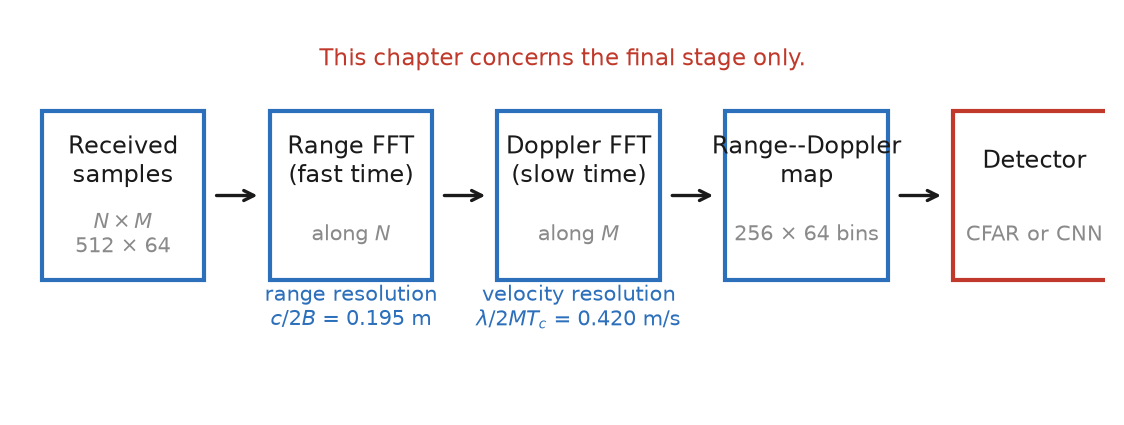
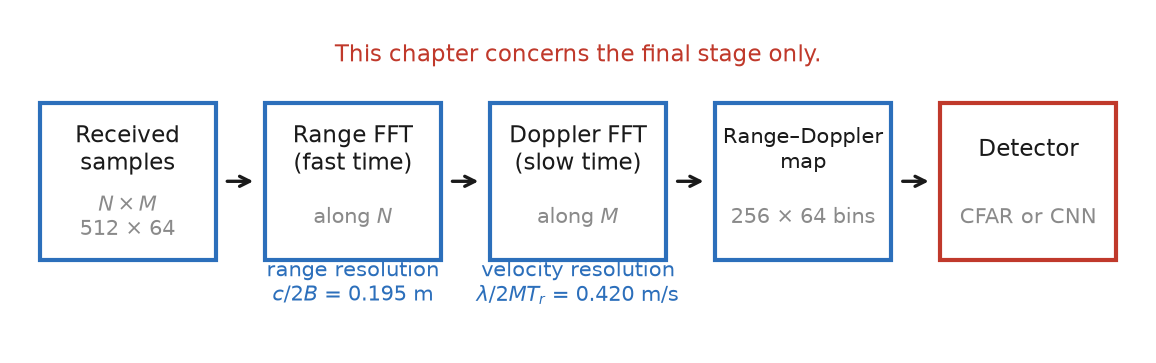
report: targeted precision and layout fixes in Chapter 2
Six requested edits. No numerical value, equation, or radar parameter
changed except the Tr/Tc notation clarified below.

Figure 2.2 (processing chain)
- Boxes laid out from a computed span so the row is centred and the
  right-most Detector block is no longer clipped by the axes limit.
- Widened boxes 15 -> 18, gap 6 -> 5; per-box font size so the
  Range-Doppler label fits.
- Fixed a LaTeX-ism: "--" rendered as two hyphens in matplotlib, now an
  en-dash character.
- Trimmed dead vertical space. Red note preserved.

Figure 2.1 (chirp)
- Gold marker relabelled "gap NOT to scale"; the on-figure note now says
  the vertical gap is exaggerated by the same 60x factor as the delay,
  and prints both true values.
- Lower panel titled "Mixing the transmitted chirp with its delayed echo
  produces a beat frequency proportional to range", marked true scale.
- Caption states the f_b gap is not drawn at 1.42 MHz.
- Mathematics and example values unchanged.

Range resolution (2.2.2)
- "Resolution depends on the swept bandwidth alone" -> nominal
  resolution determined primarily by swept bandwidth under stated
  assumptions, with a note that windowing widens the achieved value.
- Resolution criterion softened to "approximately one range-resolution
  cell of separation".

Doppler notation (2.2.3)
- Verified against src/radar/simulator.py: slow time is sampled at
  arange(M)*Tc and fftfreq(M, d=Tc), and frame time is M*Tc, so there is
[…]

Changed region(s): [[0.0311, 0.2424, 0.9964, 0.8485], [0.2802, 0.0909, 0.7162, 0.1818]]

diff --git a/scripts/make_ch2_figures.py b/scripts/make_ch2_figures.py
@@ -99,9 +99,9 @@ def fig_chirp():
     f_tx = t0 / Tc_us * B_MHz
     f_rx = (t0 - tau_plot) / Tc_us * B_MHz
     a.plot([t0, t0], [f_rx, f_tx], color=GOLD, lw=3.0, solid_capstyle="butt")
-    a.annotate("$f_b$: the two differ by a\nconstant frequency",
+    a.annotate("the two differ by a constant\nfrequency $f_b$ (gap NOT to scale)",
                xy=(t0, (f_rx + f_tx) / 2),
-               xytext=(t0 + 0.07 * Tc_us, 0.30 * B_MHz),
+               xytext=(t0 + 0.07 * Tc_us, 0.26 * B_MHz),
                arrowprops=dict(arrowstyle="->", color=GOLD, lw=1.1),
                color=GOLD, fontsize=8.2)
 
@@ -113,8 +113,10 @@ def fig_chirp():
     a.set_title("The echo is a delayed copy of the chirp, so the delay becomes a frequency")
     a.spines[["top", "right"]].set_visible(False)
     a.text(0.985, 0.06,
-           "delay drawn $\\times$%d for visibility;\ntrue $\\tau$ = %.3f $\\mu$s at $R$ = 20 m"
-           % (EXAG, tau_us),
+           "Delay drawn $\\times$%d for visibility, so the vertical\n"
+           "gap is exaggerated by the same factor.\n"
+           "True values at $R$ = 20 m: $\\tau$ = %.3f $\\mu$s, $f_b$ = %.2f MHz."
+           % (EXAG, tau_us, fb / 1e6),
            transform=a.transAxes, ha="right", va="bottom", fontsize=7.4, color=GREY)
 
     # --- beat tone, over a short window so individual cycles are visible
@@ -127,9 +129,11 @@ def fig_chirp():
     b.set_yticks([])
     b.set_xlim(20.0, 20.0 + span)
     b.spines[["top", "right", "left"]].set_visible(False)
-    b.set_title("The resulting beat tone: one frequency per target range", fontsize=9)
+    b.set_title("Mixing the transmitted chirp with its delayed echo produces a beat "
+                "frequency proportional to range", fontsize=9)
     b.text(0.985, 0.94,
-           "$f_b = 2BR / (c\\,T_c)$;    $R = 20$ m $\\Rightarrow f_b = %.2f$ MHz" % (fb / 1e6),
+           "$f_b = 2BR / (c\\,T_c)$;    $R = 20$ m $\\Rightarrow f_b = %.2f$ MHz "
+           "(shown here at true scale)" % (fb / 1e6),
            transform=b.transAxes, ha="right", va="top", fontsize=8.4, color=INK)
 
     fig.tight_layout()
@@ -144,37 +148,48 @@ def fig_chirp():
 # ----------------------------------------------------------------------- Fig 2.2
 def fig_chain():
     """From received samples to the range-Doppler map: two FFTs."""
-    fig, ax = plt.subplots(figsize=(7.0, 2.5))
-    ax.axis("off")
-    ax.set_xlim(0, 100)
-    ax.set_ylim(0, 34)
+    # Five boxes of width w with gap g: the row spans 5w + 4g. Lay it out symmetrically
+    # inside the axes so the final box is never clipped at the right edge.
+    w, h, g = 18, 15, 5
+    n_box = 5
+    span = n_box * w + (n_box - 1) * g          # 99
+    margin = 2.0
+    x_lim = span + 2 * margin                   # 103
 
-    boxes = [
-        (2,  "Received\nsamples", "$N \\times M$\n%d $\\times$ %d" % (CFG.N, CFG.M)),
-        (23, "Range FFT\n(fast time)", "along $N$"),
-        (44, "Doppler FFT\n(slow time)", "along $M$"),
-        (65, "Range--Doppler\nmap", "%d $\\times$ %d bins" % (CFG.N // 2, CFG.M)),
-        (86, "Detector", "CFAR or CNN"),
+    fig, ax = plt.subplots(figsize=(7.2, 2.1))
+    ax.axis("off")
+    ax.set_xlim(0, x_lim)
+    ax.set_ylim(3, 34)
+
+    # NB: matplotlib is not LaTeX -- "--" would render as two hyphens, so use the
+    # en-dash character directly.
+    labels = [
+        ("Received\nsamples", "$N \\times M$\n%d $\\times$ %d" % (CFG.N, CFG.M), 8.2),
+        ("Range FFT\n(fast time)", "along $N$", 8.2),
+        ("Doppler FFT\n(slow time)", "along $M$", 8.2),
+        ("Range–Doppler\nmap", "%d $\\times$ %d bins" % (CFG.N // 2, CFG.M), 7.5),
+        ("Detector", "CFAR or CNN", 8.2),
     ]
-    w, h = 15, 15
-    for x, title, sub in boxes:
+    boxes = [(margin + i * (w + g), t, s, fs) for i, (t, s, fs) in enumerate(labels)]
+    for x, title, sub, fs in boxes:
         edge = BLUE if "Detector" not in title else RED
         ax.add_patch(Rectangle((x, 11), w, h, fill=True, facecolor="white",
                                edgecolor=edge, lw=1.5, zorder=2))
-        ax.text(x + w / 2, 21.5, title, ha="center", va="center", fontsize=8.6,
+        ax.text(x + w / 2, 21.5, title, ha="center", va="center", fontsize=fs,
                 color=INK, zorder=3)
         ax.text(x + w / 2, 15.0, sub, ha="center", va="center", fontsize=7.4,
                 color=GREY, zorder=3)
 
-    for x, _, _ in boxes[:-1]:
-        ax.annotate("", xy=(x + w + 5.4, 18.5), xytext=(x + w + 0.6, 18.5),
+    for x, _, _, _ in boxes[:-1]:
+        ax.annotate("", xy=(x + w + g - 0.6, 18.5), xytext=(x + w + 0.6, 18.5),
                     arrowprops=dict(arrowstyle="->", color=INK, lw=1.2))
 
-    ax.text(30.5, 7.0, "range resolution\n$c/2B$ = %.3f m" % DER.range_res,
+    ax.text(boxes[1][0] + w / 2, 7.0, "range resolution\n$c/2B$ = %.3f m" % DER.range_res,
             ha="center", fontsize=7.4, color=BLUE)
-    ax.text(51.5, 7.0, "velocity resolution\n$\\lambda/2MT_c$ = %.3f m/s" % DER.vel_res,
+    ax.text(boxes[2][0] + w / 2, 7.0,
+            "velocity resolution\n$\\lambda/2MT_r$ = %.3f m/s" % DER.vel_res,
             ha="center", fontsize=7.4, color=BLUE)
-    ax.text(50, 30, "This chapter concerns the final stage only.",
+    ax.text(x_lim / 2, 30, "This chapter concerns the final stage only.",
             ha="center", fontsize=8.4, color=RED)
     save(fig, "ch2_fig2_processing_chain.png")
 
@@ -238,7 +253,8 @@ def fig_rd_example():
     ax[2].set_title("Cut through the target's range bin")
     ax[2].spines[["top", "right"]].set_visible(False)
     ax[2].text(0.03, 0.03,
-               "The detector must decide,\ncell by cell, which peaks\nare targets.",
+               "The detector scores each cell;\nlocal peaks are then extracted\n"
+               "as target candidates.",
                transform=ax[2].transAxes, va="bottom", fontsize=7.4, color=GREY)
 
     fig.tight_layout()

diff --git a/report/chapters/ch2_background.tex b/report/chapters/ch2_background.tex
@@ -53,10 +53,12 @@ work.
 \centering
 \includegraphics[width=0.92\textwidth]{figures/Chapter2/ch2_fig1_fmcw_chirp.png}
 \caption[FMCW chirp geometry and the beat frequency]{Top: the received echo is a delayed copy of
-the transmitted chirp, so the two differ by a constant frequency $f_b$. The delay is drawn
-magnified by 60 for visibility; the true value at \SI{20}{\metre} is stated on the figure and is
-only \SI{0.133}{\micro\second}. Bottom: the resulting beat tone, shown over a
-\SI{4}{\micro\second} window so that individual cycles are visible.}
+the transmitted chirp, so mixing the two produces a beat frequency proportional to range. The delay
+is drawn magnified by a factor of 60 for visibility, \emph{and the vertical gap labelled $f_b$ is
+exaggerated by the same factor} --- it is not drawn at \SI{1.42}{\mega\hertz}. The true values at
+\SI{20}{\metre} are $\tau = \SI{0.133}{\micro\second}$ and $f_b = \SI{1.42}{\mega\hertz}$. Bottom:
+the resulting beat tone at true scale, over a \SI{4}{\micro\second} window so that individual
+cycles are visible.}
 \label{fig:chirp}
 \end{figure}
 
@@ -67,14 +69,18 @@ converts the tone into a peak at a known frequency bin. By equation~\eqref{eq:be
 corresponds to a range. This first transform is called the \emph{range FFT}, and it is taken along
 what is known as \emph{fast time}, meaning the samples within a single chirp.
 
-Two targets are resolved in range only if their beat tones differ by at least one frequency bin,
-which yields the standard range resolution
+As a nominal resolution criterion, two targets require approximately one range-resolution cell of
+separation before they appear as separate peaks. This gives
 \begin{equation}
 \Delta R = \frac{c}{2B}.
 \label{eq:range_res}
 \end{equation}
-Resolution depends on the swept bandwidth alone. It does not depend on the chirp duration, the
-transmitted power, or the range of the target.
+The nominal FMCW range resolution is therefore determined primarily by the swept bandwidth, under
+the standard assumptions of a linear sweep, an unwindowed transform and sufficient
+signal-to-noise ratio. In particular it does not improve with a longer chirp, with higher
+transmitted power, or at shorter target range. Window functions applied before the transform, which
+suppress sidelobes, broaden the main lobe and so widen the achieved resolution beyond this nominal
+value.
 
 \subsection{Doppler estimation and the range--Doppler map}
 
@@ -86,15 +92,21 @@ of a wavelength and therefore produces a measurable phase rotation.
 
 Taking a second Fourier transform across the $M$ chirps, at each range bin, converts that phase
 rotation into a frequency: the Doppler shift. This transform is taken along \emph{slow time},
-meaning across chirps. The velocity resolution follows the same reasoning as
-equation~\eqref{eq:range_res}:
+meaning across chirps. The relevant time step here is the \emph{chirp repetition interval} $T_r$,
+the spacing between the starts of consecutive chirps, which in general is the chirp duration plus
+any idle time between chirps. \textbf{The radar modelled in this work transmits chirps
+back to back with no idle time, so $T_r = T_c$ throughout}; the two symbols are used
+interchangeably from here on, and the simulator samples slow time at exactly this spacing. The
+velocity resolution then follows the same reasoning as equation~\eqref{eq:range_res}:
 \begin{equation}
-\Delta v = \frac{\lambda}{2 M T_c},
+\Delta v = \frac{\lambda}{2 M T_r},
 \qquad
-v_{\max} = \pm\frac{\lambda}{4 T_c},
+v_{\max} = \pm\frac{\lambda}{4 T_r},
+\qquad T_r = T_c \text{ here},
 \end{equation}
 where $\lambda = c/f_c$ is the wavelength at carrier frequency $f_c$. Longer observation, meaning
-more chirps, gives finer velocity resolution; shorter chirps extend the unambiguous velocity range.
+more chirps, gives finer velocity resolution; a shorter repetition interval extends the unambiguous
+velocity range.
 
 The output of the two transforms is a two-dimensional array indexed by range bin and Doppler bin:
 the \emph{range--Doppler map}. Each target appears as a localised concentration of energy at its
@@ -121,7 +133,9 @@ Figure~\ref{fig:rdmap} shows both effects on one frame of the benchmark used in 
 \includegraphics[width=\textwidth]{figures/Chapter2/ch2_fig3_rd_map_example.png}
 \caption[A range--Doppler map and the detection problem]{Left: the target response on its own.
 Centre: the same frame as the sensor delivers it. Right: a cut through the target's range bin. The
-detection problem is to decide, cell by cell, which peaks are targets and which are background.}
+detector assigns scores or decisions to RD cells, after which local peaks are extracted as target
+candidates; Chapter~\ref{chp:detectors} specifies that extraction step and makes it identical for
+both detectors.}
 \label{fig:rdmap}
 \end{figure}
 
